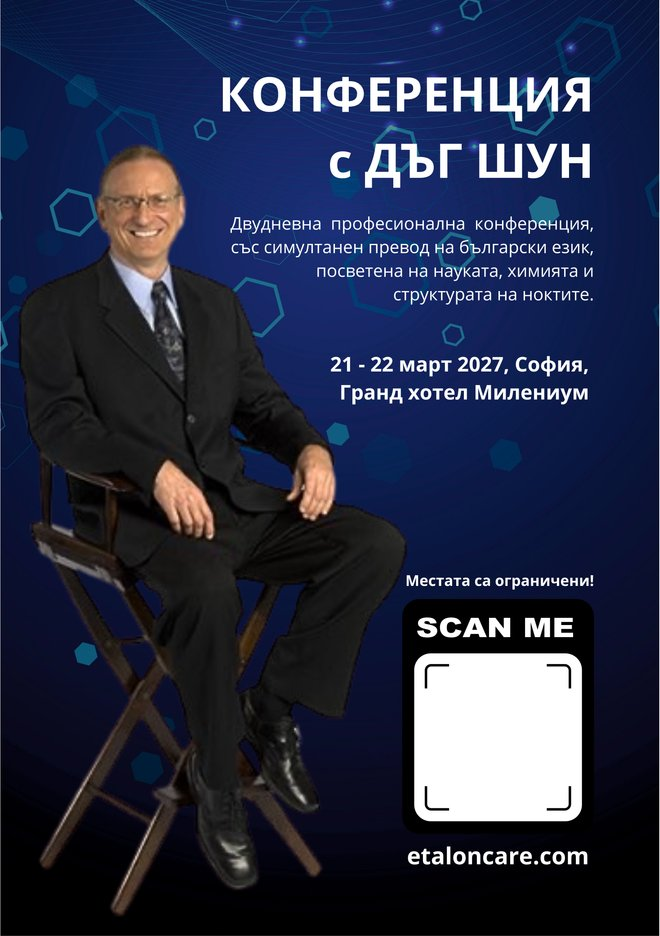
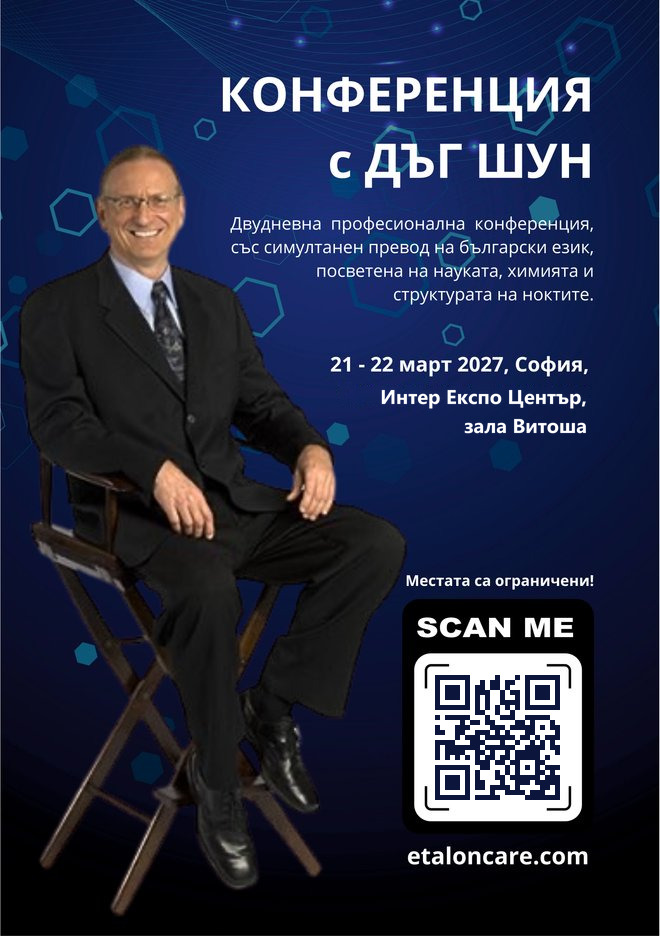
Share poster: new venue and QR code to the site

Changed region(s): [[0.6364, 0.7126, 0.8485, 0.8675], [0.5152, 0.4028, 0.9091, 0.4647]]

diff --git a/index.html b/index.html
@@ -12,7 +12,7 @@
   <meta property="og:title" content="Конференция за нокти с Дъг Шун в София">
   <meta property="og:description" content="Научна конференция за нокти, химия на продуктите и безопасна професионална работа. София, 21–22 март 2027 г.">
   <meta property="og:url" content="https://etaloncare.com/">
-  <meta property="og:image" content="https://etaloncare.com/assets/social.jpg">
+  <meta property="og:image" content="https://etaloncare.com/assets/social.jpg?v=20261030">
   <meta name="twitter:card" content="summary_large_image">
   <meta name="theme-color" content="#0c153c">
   <link rel="icon" href="assets/favicon.svg" type="image/svg+xml">
@@ -23,7 +23,7 @@
   <script src="config.js" defer></script>
   <script src="app.js?v=20261025-totop" defer></script>
   <script type="application/ld+json">
-  {"@context":"https://schema.org","@type":"EducationEvent","name":"Науката за ноктите с Дъг Шун","description":"Научна конференция за нокти, химия на продуктите и безопасна професионална работа с Дъг Шун, на английски език.","startDate":"2027-03-21","endDate":"2027-03-22","eventStatus":"https://schema.org/EventScheduled","eventAttendanceMode":"https://schema.org/OfflineEventAttendanceMode","maximumAttendeeCapacity":120,"inLanguage":["en","bg"],"location":{"@type":"Place","name":"Интер Експо Център, зала Витоша","address":{"@type":"PostalAddress","streetAddress":"147 Tsarigradsko Shose Blvd.","postalCode":"1784","addressLocality":"София","addressCountry":"BG"}},"organizer":{"@type":"Organization","name":"ETALON CARE","url":"https://etaloncare.com/"},"performer":{"@type":"Person","name":"Doug Schoon"},"url":"https://etaloncare.com/","image":"https://etaloncare.com/assets/social.jpg","offers":[{"@type":"Offer","name":"Стандарт","price":"600","priceCurrency":"EUR","validFrom":"2026-11-01T00:00:00+02:00","url":"https://etaloncare.com/#participation"},{"@type":"Offer","name":"Премиум","price":"700","priceCurrency":"EUR","validFrom":"2026-11-01T00:00:00+02:00","url":"https://etaloncare.com/#participation"}]}
+  {"@context":"https://schema.org","@type":"EducationEvent","name":"Науката за ноктите с Дъг Шун","description":"Научна конференция за нокти, химия на продуктите и безопасна професионална работа с Дъг Шун, на английски език.","startDate":"2027-03-21","endDate":"2027-03-22","eventStatus":"https://schema.org/EventScheduled","eventAttendanceMode":"https://schema.org/OfflineEventAttendanceMode","maximumAttendeeCapacity":120,"inLanguage":["en","bg"],"location":{"@type":"Place","name":"Интер Експо Център, зала Витоша","address":{"@type":"PostalAddress","streetAddress":"147 Tsarigradsko Shose Blvd.","postalCode":"1784","addressLocality":"София","addressCountry":"BG"}},"organizer":{"@type":"Organization","name":"ETALON CARE","url":"https://etaloncare.com/"},"performer":{"@type":"Person","name":"Doug Schoon"},"url":"https://etaloncare.com/","image":"https://etaloncare.com/assets/social.jpg?v=20261030","offers":[{"@type":"Offer","name":"Стандарт","price":"600","priceCurrency":"EUR","validFrom":"2026-11-01T00:00:00+02:00","url":"https://etaloncare.com/#participation"},{"@type":"Offer","name":"Премиум","price":"700","priceCurrency":"EUR","validFrom":"2026-11-01T00:00:00+02:00","url":"https://etaloncare.com/#participation"}]}
   </script>
   <noscript><style>@media(max-width:760px){.menu-toggle{display:none}.nav nav{position:static;display:flex;flex-wrap:wrap;gap:8px;padding:8px;border:0;box-shadow:none}.nav{flex-wrap:wrap}}</style></noscript>
 </head>

diff --git a/README.md b/README.md
@@ -116,7 +116,7 @@ etaloncare.com и пощата още не са прехвърлени. Pages п
 - Source of truth е branch `main`. Последната промяна по съдържанието е commit `aa9d5f0`.
 - Live сайтът [https://etaloncare.com/](https://etaloncare.com/) се публикува от GitHub Pages (workflow `pages` в `.github/workflows/qa.yml`) при всеки push в `main`; DNS е в Cloudflare и `etaloncare.com` сочи към адресите на GitHub Pages. Пощата и cPanel остават при SuperHosting.
 - Сайтът на книгата [https://book.etaloncare.com/](https://book.etaloncare.com/) е отделен PHP проект на AWS EC2 (Nginx, PHP-FPM, MariaDB) зад Cloudflare с Configuration Rule SSL Full (strict) само за този хост.
-- Мястото на събитието е **Интер Експо Център, зала Витоша**, бул. „Цариградско шосе“ 147, София — в началната страница, FAQ, booking, privacy, `assets/conference.ics` и Event schema.
+- Мястото на събитието е **Интер Експо Център, зала Витоша**, бул. „Цариградско шосе“ 147, София — в началната страница, FAQ, booking, privacy, `assets/conference.ics`, Event schema и постера за споделяне `assets/social.jpg` (с QR код към сайта).
 - Горният ред с факти отново съдържа ЕЗИК: „Симултанен превод на български“ / „Лекцията е на английски“; FAQ „Необходимо ли е да знам английски?“ споменава симултанния превод.
 - Картата на лектора показва `assets/doug-schoon-chair.webp?v=2` (Дъг Шун на режисьорски стол, изрязан фон; оригиналът 230×452 е увеличен 4× с Real-ESRGAN и смесен с Lanczos). На компютър височината на картата следва колоната с текста; снимката се побира в нея (`object-fit:contain`, долу).
 - Картите с темите: „01 / НАУЧНИТЕ ФАКТИ“, „02 / НОКЪТЯТ“ (Структура и анатомия), „03 / ХИМИЯТА“, „04 / БЕЗОПАСНОСТТА“ (Как да разбираме факторите, които влияят върху безопасността и качеството на професионалната работа), „05 / ПРОБЛЕМИТЕ“; етикетите са 15px (13px на мобилен).

diff --git a/MEMORY.md b/MEMORY.md
@@ -50,7 +50,8 @@ This file is a project memory summary. README.md and QA.md remain the authoritat
 ## Synchronization — 26.10.2026
 - Live public site: https://etaloncare.com/ is served by GitHub Pages from `main` (pages job in qa.yml); DNS is in Cloudflare; mail and cPanel stay at SuperHosting.
 - Book site: https://book.etaloncare.com/ is a separate PHP app on AWS EC2 behind Cloudflare (Full strict rule for that host only).
-- Venue: Интер Експо Център, зала Витоша, бул. „Цариградско шосе“ 147, София (home, FAQ, booking, privacy, calendar, Event schema).
+- Venue: Интер Експо Център, зала Витоша, бул. „Цариградско шосе“ 147, София (home, FAQ, booking, privacy, calendar, Event schema, assets/social.jpg).
+- Share image: assets/social.jpg is a poster with the venue and a QR code to https://etaloncare.com/; bump its `?v=` in index.html when it changes, because social networks cache it.
 - Hero facts include ЕЗИК (simultaneous Bulgarian translation, lecture in English); FAQ mentions the translation again.
 - Speaker card uses assets/doug-schoon-chair.webp?v=2 (seated photo, cut out, 4x Real-ESRGAN + Lanczos blend); on desktop the card height follows the text column and the photo is contained at the bottom.
 - Topic labels: 01 / НАУЧНИТЕ ФАКТИ, 02 / НОКЪТЯТ, 03 / ХИМИЯТА, 04 / БЕЗОПАСНОСТТА, 05 / ПРОБЛЕМИТЕ (15px). Card 04 text is about factors affecting safety and quality of professional work.
